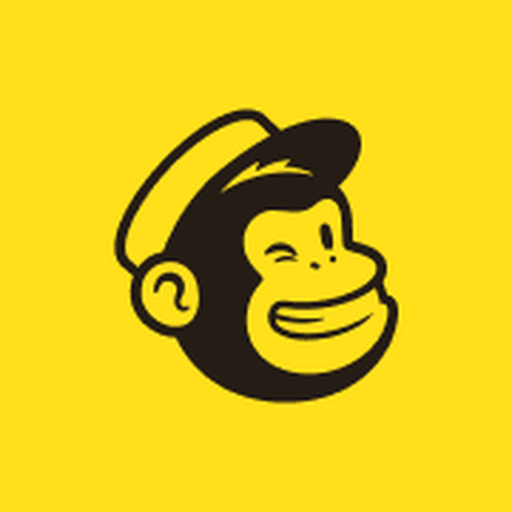
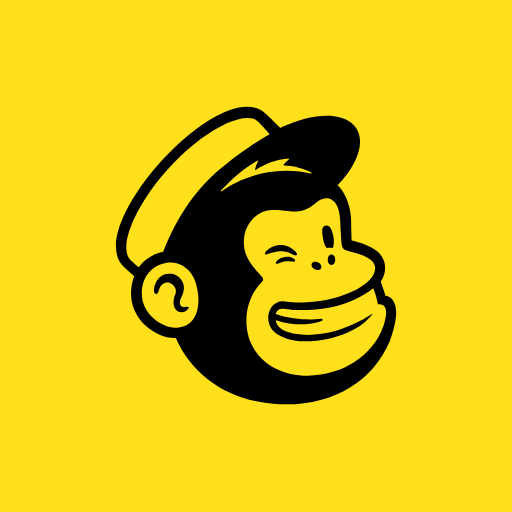
Update App Store listing: guide link, accurate claims, masked secrets
- documentation_url to the Mailchimp app guide; price_external
- How-it-works image: customers who opt out are unsubscribed, not added
  as transactional; unsubscribes highlight says live store only
- New icon; settings image without the info icon; API key and webhook
  secrets are secret fields
- DESCRIPTION.md rewritten to match the code; social card

Changed region(s): [[0.2188, 0.1875, 0.7812, 0.8125]]

diff --git a/DESCRIPTION.md b/DESCRIPTION.md
@@ -1,52 +1,12 @@
-Mailchimp for Swell connects your store to your Mailchimp account and keeps customers, products, carts and orders in sync. That's what switches on Mailchimp's ecommerce features: abandoned-cart emails, order notifications, product recommendations, purchase-based segments and order history on every contact. It works in both directions. When someone unsubscribes, bounces or changes their email address in Mailchimp, their Swell account is updated too, so you never keep marketing to someone who opted out.
+Keep your customers, products, carts and orders in sync with Mailchimp, and use Mailchimp's abandoned-cart emails, order notifications, product recommendations and purchase-based segments with your store data. When someone unsubscribes, bounces or changes their email address in Mailchimp, their Swell account is updated too.
 
-It replaces Swell's built-in Mailchimp integration, which only adds the email addresses of opted-in customers to an audience.
+Connect your Mailchimp account with an API key and choose the audience your customers join. The app replaces Swell's built-in Mailchimp integration, which adds only the email addresses of opted-in customers to an audience.
 
-## Customers and your audience
+- **Customers in your audience.** Each customer joins your audience with their name and phone number. Customers who opt in are subscribed, and customers who opt out in Swell are unsubscribed. Someone who unsubscribed through Mailchimp and opts in again gets Mailchimp's confirmation email.
+- **Abandoned-cart emails that stop at checkout.** Carts go to Mailchimp with their items and checkout link, and are removed the moment they become orders, so nobody is reminded about something they bought.
+- **Orders for notifications and segments.** Orders are sent with their items, totals, discount, coupon code, and payment and fulfillment status, for order notifications, purchase-based segments and each contact's order history.
+- **Products ready for your emails.** Products and their variants are sent with prices, sale prices, stock, images and links to your storefront.
+- **Unsubscribes come back to Swell.** Unsubscribes, bounced addresses and email changes made in Mailchimp update the Swell account in your live store, after the app confirms each change with Mailchimp.
+- **Your history, without the emails.** The first sync sends your existing products, customers and orders in bulk with Mailchimp's automations paused, so customers aren't emailed about old orders.
 
-Every customer becomes a Mailchimp customer and an audience member, with their name and phone number. Customers who opted in to marketing are subscribed. Customers who didn't are added as transactional contacts, so order emails and purchase history still work for them without them receiving marketing.
-
-- **Opting in or out in Swell** subscribes or unsubscribes the customer in Mailchimp. Someone who previously unsubscribed through Mailchimp gets Mailchimp's own confirmation email, as Mailchimp requires.
-- **Changing an email address in Swell** updates the existing Mailchimp member rather than creating a second one.
-- **Deleting a customer account** archives the member in Mailchimp. Archiving can be undone, and the customer's order history is kept for reporting.
-
-## Abandoned-cart emails that stop when they should
-
-Carts are sent to Mailchimp with their items and a link back to checkout, which is what Mailchimp's abandoned-cart automation needs. The moment a cart becomes an order it's removed from Mailchimp, so nobody gets a reminder for something they already bought. If you prefer, sync only the carts Swell has marked abandoned.
-
-## Orders, segments and purchase history
-
-Orders are sent with their items, totals, discounts, and payment and fulfillment status. That powers Mailchimp's order notifications and post-purchase automations, lets you build segments from what customers bought and how much they spent, and shows each contact's order history in Mailchimp.
-
-## Products in your emails
-
-Products and their variants are sent with prices (including sale prices), stock, images and links to your storefront, so Mailchimp can show them in emails and recommend them.
-
-## Changes in Mailchimp come back to Swell
-
-When a customer unsubscribes in Mailchimp, or Mailchimp stops emailing an address because it bounced, their marketing opt-in in Swell is switched off. When they change their email address in Mailchimp, the Swell account is updated. Every change is confirmed with Mailchimp before it's applied, and profile edits made in Mailchimp never overwrite your customer records.
-
-## A first sync that doesn't email anyone
-
-When you set the app up, your existing customers, products, carts and orders are sent in bulk. While that runs, Mailchimp's automations are paused, so customers aren't emailed about orders they placed months ago. They start again once the first sync is done.
-
-## See the sync status on every record
-
-Every customer, product, cart and order gets a Mailchimp tab with its sync status, Mailchimp ID, last sync time and any error. Each list gains a Mailchimp column, a Mailchimp errors view, and a view of records Mailchimp won't accept, such as a guest cart with no email address. Fix the cause and switch on "Re-sync on save" to send a record again. A daily check also retries failed records and makes sure Mailchimp stays connected.
-
-## Setup
-
-You need a Mailchimp account, the audience your customers should join, an API key (Profile → Extras → API keys in Mailchimp) and the audience ID.
-
-1. Install the app and turn off Swell's built-in Mailchimp integration, so customers aren't sent twice. The app warns you if it's still on.
-2. Enter your API key, audience ID, store name and storefront domain in the app's settings, choose what to sync, and switch the app on.
-3. Run the app's one-time setup to create your Mailchimp store and connect unsubscribes, then send your existing data. The README walks through both.
-
-## Good to know
-
-- Every synced customer counts as a Mailchimp contact, subscribed or not. That's how Mailchimp's ecommerce data works, and it matters on plans priced by contact count.
-- Only customers who opted in are subscribed. Customers who never answered are added as transactional contacts.
-- Unsubscribes come back to your store's live environment.
-- Orders aren't tagged with the Mailchimp campaign that led to them, so Mailchimp doesn't credit revenue to individual campaigns.
-- Mailchimp promo codes, site tracking and campaign webhooks are not included.
-- This app is built and supported by Swell and is open source at github.com/swellstores/mailchimp-app.
+Setup takes a few minutes. In Mailchimp, create an API key and copy your audience ID. Turn off the built-in Mailchimp integration, enter the key, audience ID and a webhook secret in the app settings, and turn the app on. To send the records you already have, run the first sync with the Swell CLI. Each customer, product, cart and order shows its Mailchimp sync status and any error.
